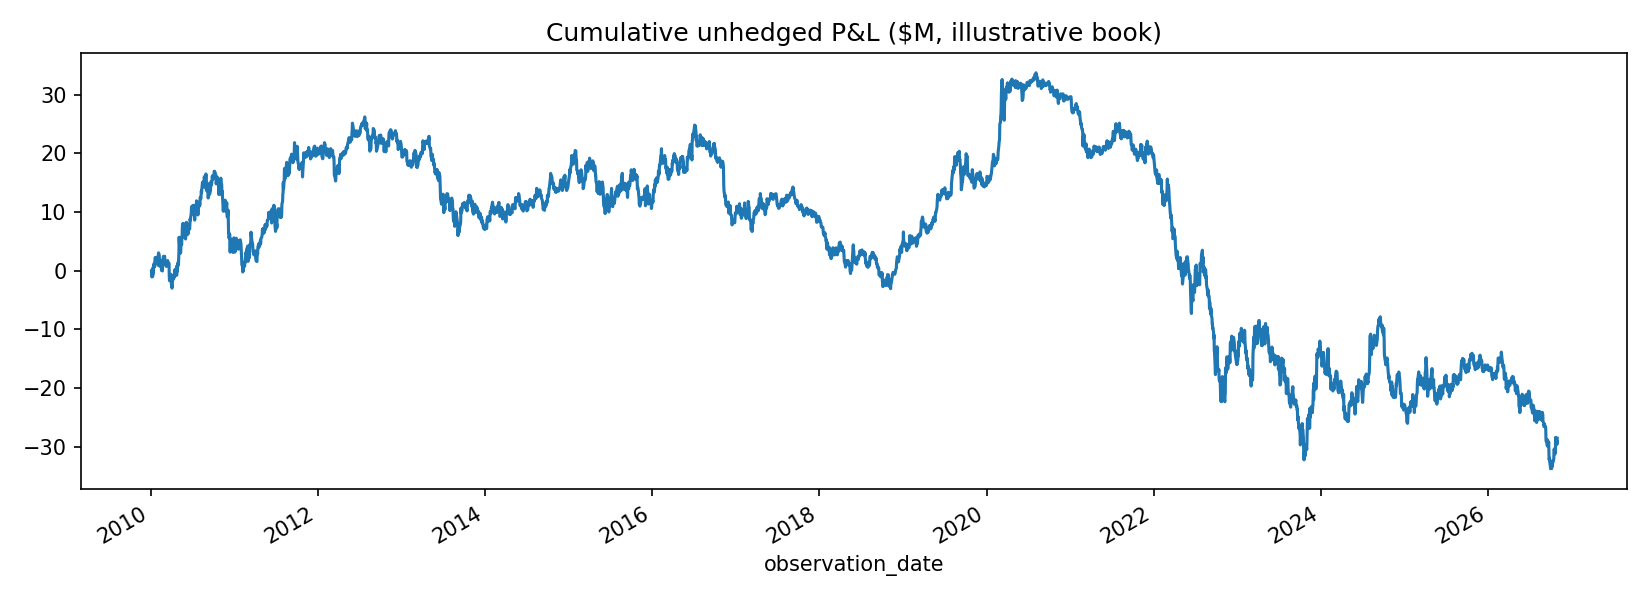
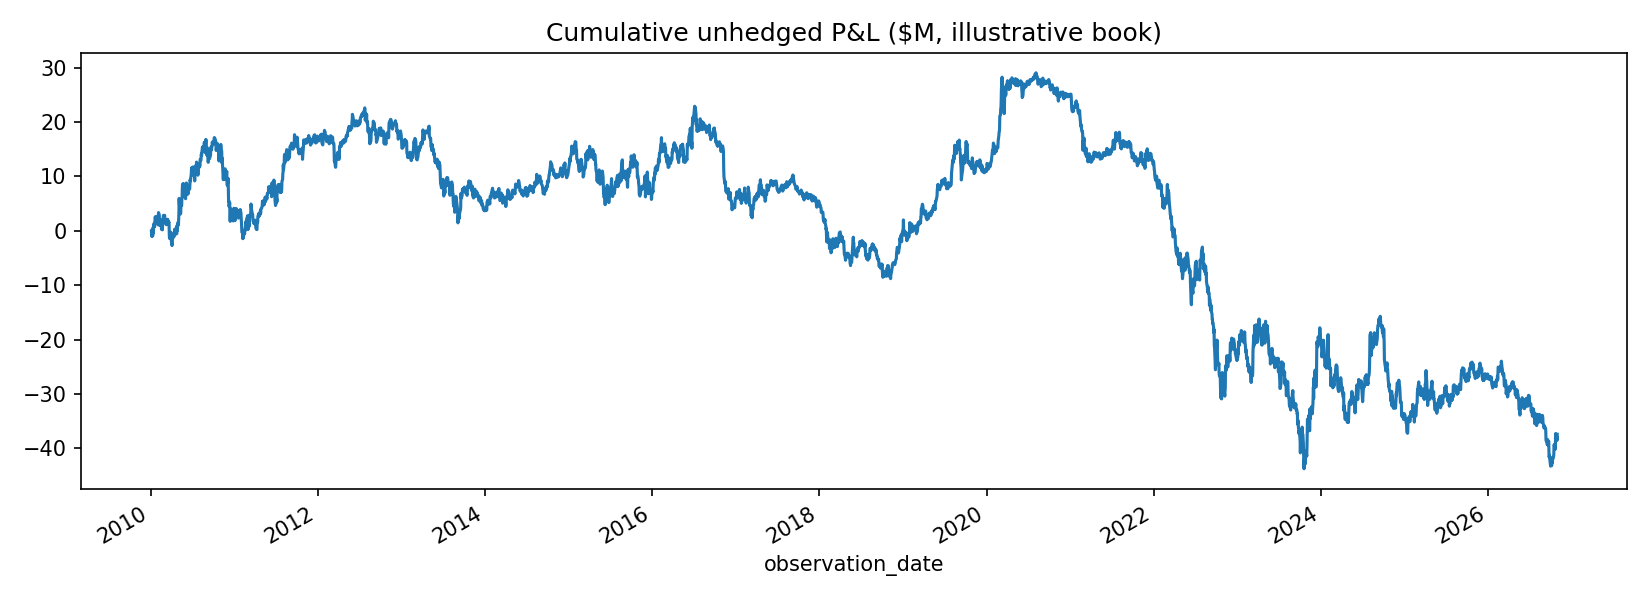
Add hedge policies, cost model and backtest

diff --git a/src/backtest.py b/src/backtest.py
@@ -1,0 +1,83 @@
+import numpy as np
+import pandas as pd
+from src.portfolio import H
+
+# Hedge instruments: 2Y, 5Y, 10Y futures only (no 30Y future), so the 30Y
+# bucket can only be hedged through correlation -> residual risk exists.
+INSTR = [0, 1, 2]
+HS = H[:, INSTR]                    # 4 buckets x 3 instruments
+DV = np.diag(H)[INSTR]              # DV01 per contract in its own bucket
+
+# Illustrative transaction costs (state these as assumptions!)
+SPREAD = 0.5                        # $ per $/bp of DV01 traded (linear)
+IMPACT = 1e-5                       # $ per ($/bp)^2 of DV01 traded (quadratic)
+C = np.diag(IMPACT * DV ** 2)       # quadratic cost, per contract^2
+WARMUP = 60
+
+
+def trade_cost(q):
+    x = np.abs(q) * DV              # DV01 traded per instrument
+    return SPREAD * x.sum() + IMPACT * (x ** 2).sum()
+
+
+def ewma_cov_path(dy, lam=0.94, warmup=WARMUP):
+    """path[t] = EWMA covariance estimate using data through day t only."""
+    X = dy.values
+    path = np.full((len(X), 4, 4), np.nan)
+    S = X[:warmup].T @ X[:warmup] / warmup
+    path[warmup - 1] = S
+    for t in range(warmup, len(X)):
+        S = lam * S + (1 - lam) * np.outer(X[t], X[t])
+        path[t] = S
+    return path
+
+
+def risk(r, S):
+    return float(np.sqrt(max(r @ S @ r, 0.0)))
+
+
+def minvar_trade(r0, S):
+    """Trade that minimises residual variance, ignoring costs."""
+    return -np.linalg.solve(HS.T @ S @ HS, HS.T @ S @ r0)
+
+
+# ---- policies: f(book_dv01, position, cov) -> trade in contracts
+def p_none():
+    return lambda b, pos, S: np.zeros(len(INSTR))
+
+
+def p_minvar():
+    return lambda b, pos, S: minvar_trade(b + HS @ pos, S)
+
+
+def p_threshold(limit):
+    def f(b, pos, S):
+        r0 = b + HS @ pos
+        q = minvar_trade(r0, S)
+        excess = risk(r0, S) - risk(r0 + HS @ q, S)   # $/day of risk we would remove
+        return q if excess > limit else np.zeros(len(INSTR))
+    return f
+
+
+def p_optimal(lam):
+    def f(b, pos, S):
+        r0 = b + HS @ pos
+        A = HS.T @ S @ HS + lam * C
+        return -np.linalg.solve(A, HS.T @ S @ r0)
+    return f
+
+
+def run(policy, dy, book, cov_path, warmup=WARMUP):
+    """Decide at the close of day i-1 (using data up to i-1), earn P&L on day i."""
+    X, B = dy.values, book.values
+    pos = np.zeros(len(INSTR))
+    rows = []
+    for i in range(warmup, len(X)):
+        b, S = B[i - 1], cov_path[i - 1]
+        q = policy(b, pos, S)
+        cost = trade_cost(q)
+        pos = pos + q
+        r = b + HS @ pos
+        rows.append((-(r @ X[i]), cost, float((np.abs(q) * DV).sum())))
+    return pd.DataFrame(rows, index=dy.index[warmup:],
+                        columns=["gross", "cost", "traded"])

diff --git a/src/run_backtest.py b/src/run_backtest.py
@@ -1,0 +1,48 @@
+import pandas as pd
+from src.changes import daily_changes_bp
+from src.portfolio import simulate_book
+from src.backtest import (ewma_cov_path, run, p_none, p_minvar,
+                          p_threshold, p_optimal)
+
+TRAIN = slice(None, "2019-12-31")
+TEST = slice("2020-01-01", None)
+
+
+def table(results, period):
+    base = results["no hedge"].loc[period]
+    rows = {}
+    for name, res in results.items():
+        r = res.loc[period]
+        yrs = len(r) / 252
+        rows[name] = {
+            "risk $k/day": r.gross.std() / 1e3,
+            "var reduction %": 100 * (1 - r.gross.var() / base.gross.var()),
+            "cost $k/yr": r.cost.sum() / 1e3 / yrs,
+            "traded $M/yr": r.traded.sum() / 1e6 / yrs,
+        }
+    return pd.DataFrame(rows).T.round(1)
+
+
+def main():
+    dy = daily_changes_bp()
+    book = simulate_book(dy.index)
+    cov = ewma_cov_path(dy)
+
+    policies = {"no hedge": p_none(), "min-var daily": p_minvar()}
+    for lim in [10e3, 25e3, 50e3, 100e3, 200e3]:
+        policies[f"threshold {lim / 1e3:.0f}k"] = p_threshold(lim)
+    for lam in [1e5, 1e6, 1e7, 1e8, 1e9]:
+        policies[f"cost-aware {lam:.0e}"] = p_optimal(lam)
+
+    results = {n: run(p, dy, book, cov) for n, p in policies.items()}
+
+    pd.set_option("display.width", 120)
+    for label, period in [("TRAIN 2010-2019", TRAIN), ("TEST 2020-2026", TEST)]:
+        t = table(results, period)
+        print(f"\n=== {label} ===")
+        print(t.to_string())
+        t.to_csv(f"results/summary_{label.split()[0].lower()}.csv")
+
+
+if __name__ == "__main__":
+    main()

diff --git a/src/portfolio.py b/src/portfolio.py
@@ -14,14 +14,17 @@ H = np.array([
 BOOK_MEAN = np.array([20e3, 40e3, 60e3, 30e3])   # $/bp, illustrative
 
 
-def simulate_book(index, seed=42, phi=0.98, shock=1.5e3):
-    """DV01 held at the close of each day (mean-reverting around BOOK_MEAN)."""
+def simulate_book(index, seed=42, phi=0.98, shock=0.07):
+    """DV01 held at the close of each day.
+
+    log(DV01 / mean) follows a mean-reverting AR(1), so DV01 stays positive.
+    Stationary std of the log is about shock / sqrt(1 - phi^2) = 0.35.
+    """
     rng = np.random.default_rng(seed)
-    d = np.zeros((len(index), 4))
-    d[0] = BOOK_MEAN
+    x = np.zeros((len(index), 4))
     for t in range(1, len(index)):
-        d[t] = BOOK_MEAN + phi * (d[t - 1] - BOOK_MEAN) + rng.normal(scale=shock, size=4)
-    return pd.DataFrame(d, index=index, columns=BUCKETS)
+        x[t] = phi * x[t - 1] + rng.normal(scale=shock, size=4)
+    return pd.DataFrame(BOOK_MEAN * np.exp(x), index=index, columns=BUCKETS)
 
 
 def unhedged_pnl(book, dy):
